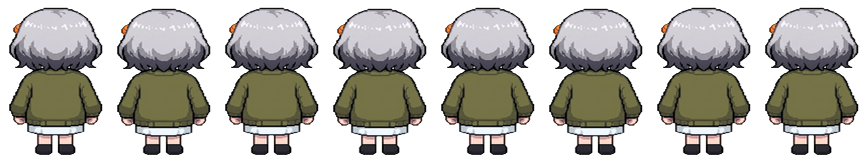
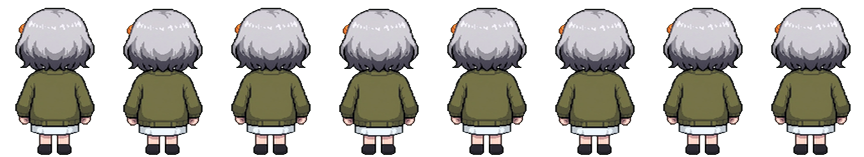
뒷모습 폭을 정면에 맞춤 (머리 폭 84.5 → 72px, width_like 옵션)
Claude-Session: https://claude.ai/code/session_01MBgVgKbFxkEXND4zuEcjdV

Changed region(s): [[0.0, 0.051, 1.0, 0.9936]]

diff --git a/tools/sprite_cleanup/video_walk.py b/tools/sprite_cleanup/video_walk.py
@@ -112,7 +112,7 @@ def write_idle(out, meta, name, mirror, cell, cw, ch):
         meta["animations"][nm] = {"frames": len(seq), "cell": [cw, ch], "fps": 3, "loop": True}
 
 
-def main(out_dir, name, idle_name, video, start, period, count, fps=8, mirror_as=None, idle_as=None, idle_mirror=None, proportion=True):
+def main(out_dir, name, idle_name, video, start, period, count, fps=8, mirror_as=None, idle_as=None, idle_mirror=None, proportion=True, width_like=None):
     out = Path(out_dir)
     meta = json.loads((out / "frames.json").read_text(encoding="utf-8"))
     cw, ch = meta["cell"]
@@ -140,7 +140,10 @@ def main(out_dir, name, idle_name, video, start, period, count, fps=8, mirror_as
     r0 = raw[0].crop(raw[0].getbbox())
     k = target / stature(r0)
     # 영상은 원본 그림을 세로 화면(9:16)에 맞추느라 가로로 눌려 있음 → 머리 폭/키 비율을 정지 그림에 맞춰 가로로 되돌림
-    kx = k * (head_width(stand) / stature(stand)) / (head_width(r0) / stature(r0))
+    ref_w = stand
+    if width_like:   # 머리 폭을 다른 방향(예: 정면) 정지 그림에 맞춤 → 방향을 바꿔도 몸 폭이 같게
+        ref_w = Image.open(out / f"{width_like}.png").convert("RGBA").crop((0, 0, cw, ch))
+    kx = k * (head_width(ref_w) / stature(ref_w)) / (head_width(r0) / stature(r0))
     frames = []
     first_box = raw[0].getbbox()
     for im in raw:
@@ -166,7 +169,7 @@ def main(out_dir, name, idle_name, video, start, period, count, fps=8, mirror_as
     c_top, c_chin, c_bot = chin_rows(cells[0])
     ku = (s_chin - s_top) / (c_chin - c_top)
     kl = (s_bot - s_chin) / (c_bot - c_chin)
-    kxx = head_width(stand) / head_width(cells[0])
+    kxx = head_width(ref_w) / head_width(cells[0])
     if not proportion:   # 뒷모습처럼 턱(얼굴)이 안 보이면 비율 맞춤을 하지 않음 (키만 맞춤)
         ku = kl = 1.0
     t0 = c_top

diff --git a/tools/sprite_cleanup/clean_chroma.py b/tools/sprite_cleanup/clean_chroma.py
@@ -302,7 +302,7 @@ def main(cfg_path, out_dir):
         from video_walk import main as video_walk
         video_walk(out, v["name"], v["idle"], str(Path(cfg_path).parent / v["video"]), v["start"], v["period"],
                    v["count"], v.get("fps", 8), v.get("mirror_as"), v.get("idle_as"), v.get("idle_mirror"),
-                   v.get("proportion", True))
+                   v.get("proportion", True), v.get("width_like"))
     # 다리 합성 걷기 (정지 그림 + 다리 편집 그림). compose_walk.py 참고
     for cw_opt in cfg.get("compose_walks", []):
         from compose_walk import main as compose
